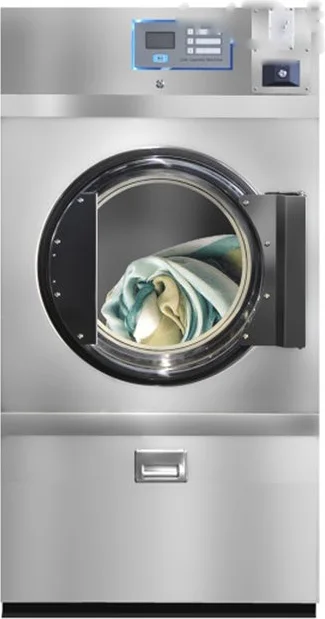
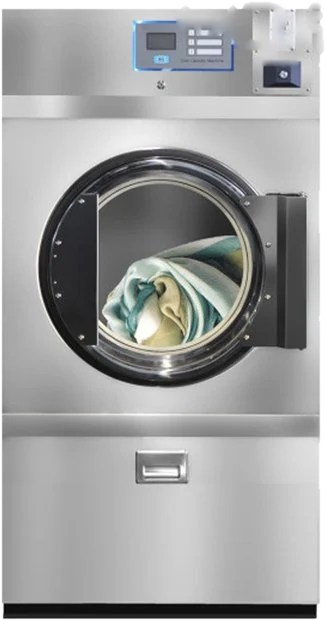
세탁기·건조기 사진 배경을 투명하게 따냄
Claude-Session: https://claude.ai/code/session_01J7kUsuTHzehvqkmxSrFk6d

diff --git a/index.html b/index.html
@@ -51,7 +51,7 @@
     </dl>
   </div>
   <div class="wrap">
-    <ul class="lineup" aria-label="취급 장비"><li style="--i:0"><a href="washer.html#w-large" style="--hf:1.0" aria-label="대형세탁기 보기"><span class="tag" aria-hidden="true">대형세탁기</span><picture><source srcset="img/prod/cut/washer-large.webp" type="image/webp"><img src="img/prod/cut/washer-large.jpg" class="mul" alt="은성·평화기계 대형세탁기" width="610" height="603" fetchpriority="high"></picture></a></li><li style="--i:1"><a href="dryer.html#d-large" style="--hf:1.0" aria-label="대형건조기 보기"><span class="tag" aria-hidden="true">대형건조기</span><picture><source srcset="img/prod/cut/dryer-blue.webp" type="image/webp"><img src="img/prod/cut/dryer-blue.jpg" class="mul" alt="은성·평화기계 대형건조기" width="359" height="622" fetchpriority="high"></picture></a></li><li style="--i:2"><a href="boiler.html#b-oil" style="--hf:0.98" aria-label="기름 스팀보일러 보기"><span class="tag" aria-hidden="true">기름 스팀보일러</span><picture><source srcset="img/prod/cut/pho-30.webp" type="image/webp"><img src="img/prod/cut/pho-30.png" alt="은성·평화기계 기름 스팀보일러" width="205" height="599" fetchpriority="high"></picture></a></li><li style="--i:3"><a href="boiler.html#b-elec" style="--hf:0.8" aria-label="전기 스팀보일러 보기"><span class="tag" aria-hidden="true">전기 스팀보일러</span><picture><source srcset="img/prod/cut/phe-small.webp" type="image/webp"><img src="img/prod/cut/phe-small.png" alt="은성·평화기계 전기 스팀보일러" width="361" height="572" fetchpriority="auto"></picture></a></li><li style="--i:4"><a href="washer.html#w-coin" style="--hf:0.8" aria-label="코인세탁기 보기"><span class="tag" aria-hidden="true">코인세탁기</span><picture><source srcset="img/prod/cut/washer-coin.webp" type="image/webp"><img src="img/prod/cut/washer-coin.jpg" class="mul" alt="은성·평화기계 코인세탁기" width="475" height="623" fetchpriority="auto"></picture></a></li><li style="--i:5"><a href="dryer.html#d-coin" style="--hf:0.92" aria-label="코인건조기 보기"><span class="tag" aria-hidden="true">코인건조기</span><picture><source srcset="img/prod/cut/dryer-coin.webp" type="image/webp"><img src="img/prod/cut/dryer-coin.jpg" class="mul" alt="은성·평화기계 코인건조기" width="325" height="619" fetchpriority="auto"></picture></a></li></ul>
+    <ul class="lineup" aria-label="취급 장비"><li style="--i:0"><a href="washer.html#w-large" style="--hf:1.0" aria-label="대형세탁기 보기"><span class="tag" aria-hidden="true">대형세탁기</span><picture><source srcset="img/prod/cut/washer-large.webp" type="image/webp"><img src="img/prod/cut/washer-large.png" alt="은성·평화기계 대형세탁기" width="611" height="603" fetchpriority="high"></picture></a></li><li style="--i:1"><a href="dryer.html#d-large" style="--hf:1.0" aria-label="대형건조기 보기"><span class="tag" aria-hidden="true">대형건조기</span><picture><source srcset="img/prod/cut/dryer-blue.webp" type="image/webp"><img src="img/prod/cut/dryer-blue.png" alt="은성·평화기계 대형건조기" width="361" height="623" fetchpriority="high"></picture></a></li><li style="--i:2"><a href="boiler.html#b-oil" style="--hf:0.98" aria-label="기름 스팀보일러 보기"><span class="tag" aria-hidden="true">기름 스팀보일러</span><picture><source srcset="img/prod/cut/pho-30.webp" type="image/webp"><img src="img/prod/cut/pho-30.png" alt="은성·평화기계 기름 스팀보일러" width="205" height="599" fetchpriority="high"></picture></a></li><li style="--i:3"><a href="boiler.html#b-elec" style="--hf:0.8" aria-label="전기 스팀보일러 보기"><span class="tag" aria-hidden="true">전기 스팀보일러</span><picture><source srcset="img/prod/cut/phe-small.webp" type="image/webp"><img src="img/prod/cut/phe-small.png" alt="은성·평화기계 전기 스팀보일러" width="361" height="572" fetchpriority="auto"></picture></a></li><li style="--i:4"><a href="washer.html#w-coin" style="--hf:0.8" aria-label="코인세탁기 보기"><span class="tag" aria-hidden="true">코인세탁기</span><picture><source srcset="img/prod/cut/washer-coin.webp" type="image/webp"><img src="img/prod/cut/washer-coin.png" alt="은성·평화기계 코인세탁기" width="477" height="618" fetchpriority="auto"></picture></a></li><li style="--i:5"><a href="dryer.html#d-coin" style="--hf:0.92" aria-label="코인건조기 보기"><span class="tag" aria-hidden="true">코인건조기</span><picture><source srcset="img/prod/cut/dryer-coin.webp" type="image/webp"><img src="img/prod/cut/dryer-coin.png" alt="은성·평화기계 코인건조기" width="326" height="621" fetchpriority="auto"></picture></a></li></ul>
     <ul class="lineup-names" aria-hidden="true"><li><a href="washer.html#w-large" tabindex="-1">대형세탁기</a></li><li><a href="dryer.html#d-large" tabindex="-1">대형건조기</a></li><li><a href="boiler.html#b-oil" tabindex="-1">기름 스팀보일러</a></li><li><a href="boiler.html#b-elec" tabindex="-1">전기 스팀보일러</a></li><li><a href="washer.html#w-coin" tabindex="-1">코인세탁기</a></li><li><a href="dryer.html#d-coin" tabindex="-1">코인건조기</a></li></ul>
   </div>
 </section>
@@ -61,11 +61,11 @@
     <ul class="cat"><li><a href="washer.html">
         <div><h3>은성 업소용 세탁기</h3><p class="types-line">대형, 중소형, 코인, 운동화 코인</p><span class="more">세탁기 12개 모델 보기</span></div>
         <p class="range">10–150<small>kg</small><span class="range-sub">세탁 용량</span></p>
-        <div class="thumb"><img src="img/prod/cut/washer-large.jpg" class="mul" alt="" width="610" height="603" loading="lazy"></div>
+        <div class="thumb"><img src="img/prod/cut/washer-large.png" alt="" width="611" height="603" loading="lazy"></div>
       </a></li><li><a href="dryer.html">
         <div><h3>은성 업소용 건조기</h3><p class="types-line">대형, 중소형, 코인. 스팀식과 전기히터식</p><span class="more">건조기 11개 모델 보기</span></div>
         <p class="range">15–150<small>kg</small><span class="range-sub">건조 용량</span></p>
-        <div class="thumb"><img src="img/prod/cut/dryer-blue.jpg" class="mul" alt="" width="359" height="622" loading="lazy"></div>
+        <div class="thumb"><img src="img/prod/cut/dryer-blue.png" alt="" width="361" height="623" loading="lazy"></div>
       </a></li><li><a href="boiler.html">
         <div><h3>평화기계 스팀보일러</h3><p class="types-line">기름(등유·경유)과 전기</p><span class="more">보일러 32개 모델 보기</span></div>
         <p class="range">30–1,500<small>kg/h</small><span class="range-sub">기름식 증발량, 전기식은 히터 5–1,000kW</span></p>

diff --git a/washer.html b/washer.html
@@ -45,7 +45,7 @@
       <p>대형 산업용부터 코인빨래방용, 운동화 세탁기까지. 업장에 맞는 세탁기를 골라 설치하고 계속 관리합니다.</p>
       <div class="btn-row"><a class="btn btn-ink" href="tel:01044612300"><svg viewBox="0 0 24 24" fill="none" stroke="currentColor" stroke-width="2" stroke-linecap="round" stroke-linejoin="round" aria-hidden="true"><path d="M5 3h4l2 5-2.5 1.5a11 11 0 0 0 6 6L16 13l5 2v4a2 2 0 0 1-2 2A17 17 0 0 1 3 5a2 2 0 0 1 2-2z"/></svg>전화 상담 010-4461-2300</a></div>
     </div>
-    <div class="sub-pic multi"><picture style="--hf:1"><source srcset="img/prod/cut/washer-large.webp" type="image/webp"><img src="img/prod/cut/washer-large.jpg" class="mul" alt="" width="610" height="603" fetchpriority="high"></picture><picture style="--hf:0.86"><source srcset="img/prod/cut/washer-mid.webp" type="image/webp"><img src="img/prod/cut/washer-mid.jpg" class="mul" alt="" width="474" height="623" fetchpriority="high"></picture><picture style="--hf:0.8"><source srcset="img/prod/cut/washer-coin.webp" type="image/webp"><img src="img/prod/cut/washer-coin.jpg" class="mul" alt="" width="475" height="623" fetchpriority="high"></picture><picture style="--hf:0.74"><source srcset="img/prod/cut/washer-shoe.webp" type="image/webp"><img src="img/prod/cut/washer-shoe.jpg" class="mul" alt="" width="517" height="621" fetchpriority="high"></picture></div>
+    <div class="sub-pic multi"><picture style="--hf:1"><source srcset="img/prod/cut/washer-large.webp" type="image/webp"><img src="img/prod/cut/washer-large.png" alt="" width="611" height="603" fetchpriority="high"></picture><picture style="--hf:0.86"><source srcset="img/prod/cut/washer-mid.webp" type="image/webp"><img src="img/prod/cut/washer-mid.png" alt="" width="476" height="623" fetchpriority="high"></picture><picture style="--hf:0.8"><source srcset="img/prod/cut/washer-coin.webp" type="image/webp"><img src="img/prod/cut/washer-coin.png" alt="" width="477" height="618" fetchpriority="high"></picture><picture style="--hf:0.74"><source srcset="img/prod/cut/washer-shoe.webp" type="image/webp"><img src="img/prod/cut/washer-shoe.png" alt="" width="518" height="623" fetchpriority="high"></picture></div>
   </div>
 </section><nav class="ptabs" aria-label="제품 종류"><div class="wrap"><a href="#w-large"><img src="img/prod/washer-large.jpg" alt="" width="36" height="36" loading="lazy"><span>대형세탁기</span></a><a href="#w-mid"><img src="img/prod/washer-mid.jpg" alt="" width="36" height="36" loading="lazy"><span>중소형세탁기</span></a><a href="#w-coin"><img src="img/prod/washer-coin.jpg" alt="" width="36" height="36" loading="lazy"><span>코인세탁기</span></a><a href="#w-shoe"><img src="img/prod/washer-shoe.jpg" alt="" width="36" height="36" loading="lazy"><span>운동화 코인세탁기</span></a></div></nav><section class="section pblock" id="w-large">
   <div class="wrap">

diff --git a/dryer.html b/dryer.html
@@ -45,7 +45,7 @@
       <p>대형, 중소형, 코인빨래방용까지. 업장에 맞는 건조기를 고르고, 설치하고, 계속 관리합니다.</p>
       <div class="btn-row"><a class="btn btn-ink" href="tel:01044612300"><svg viewBox="0 0 24 24" fill="none" stroke="currentColor" stroke-width="2" stroke-linecap="round" stroke-linejoin="round" aria-hidden="true"><path d="M5 3h4l2 5-2.5 1.5a11 11 0 0 0 6 6L16 13l5 2v4a2 2 0 0 1-2 2A17 17 0 0 1 3 5a2 2 0 0 1 2-2z"/></svg>전화 상담 010-4461-2300</a></div>
     </div>
-    <div class="sub-pic multi"><picture style="--hf:1"><source srcset="img/prod/cut/dryer-blue.webp" type="image/webp"><img src="img/prod/cut/dryer-blue.jpg" class="mul" alt="" width="359" height="622" fetchpriority="high"></picture><picture style="--hf:0.9"><source srcset="img/prod/cut/dryer-mid.webp" type="image/webp"><img src="img/prod/cut/dryer-mid.jpg" class="mul" alt="" width="404" height="623" fetchpriority="high"></picture><picture style="--hf:0.92"><source srcset="img/prod/cut/dryer-coin.webp" type="image/webp"><img src="img/prod/cut/dryer-coin.jpg" class="mul" alt="" width="325" height="619" fetchpriority="high"></picture></div>
+    <div class="sub-pic multi"><picture style="--hf:1"><source srcset="img/prod/cut/dryer-blue.webp" type="image/webp"><img src="img/prod/cut/dryer-blue.png" alt="" width="361" height="623" fetchpriority="high"></picture><picture style="--hf:0.9"><source srcset="img/prod/cut/dryer-mid.webp" type="image/webp"><img src="img/prod/cut/dryer-mid.png" alt="" width="372" height="619" fetchpriority="high"></picture><picture style="--hf:0.92"><source srcset="img/prod/cut/dryer-coin.webp" type="image/webp"><img src="img/prod/cut/dryer-coin.png" alt="" width="326" height="621" fetchpriority="high"></picture></div>
   </div>
 </section><nav class="ptabs" aria-label="제품 종류"><div class="wrap"><a href="#d-large"><img src="img/prod/dryer-blue.jpg" alt="" width="36" height="36" loading="lazy"><span>대형건조기</span></a><a href="#d-mid"><img src="img/prod/dryer-mid.jpg" alt="" width="36" height="36" loading="lazy"><span>중소형건조기</span></a><a href="#d-coin"><img src="img/prod/dryer-coin.jpg" alt="" width="36" height="36" loading="lazy"><span>코인건조기</span></a></div></nav><section class="section pblock" id="d-large">
   <div class="wrap">
